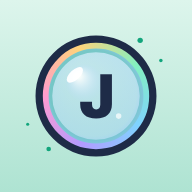
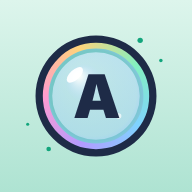
Version 1.9: rename the game from Justo to Ajusto
"Justo" is already used by other apps (food ordering, a Mexican grocery
service, a Brazilian car insurer). Ajusto keeps "justo" inside and reads as
"adjust" in most of the game's languages.

- Name in the page title, logo, manifest and shared text
- New icons with an "A" in the bubble (same pastel design)
- Console helper renamed to window.Ajusto
- Address, save keys and daily challenge seed unchanged: no progress lost
- README and project instructions updated

Claude-Session: https://claude.ai/code/session_01LGSvZm1n3tLj4MuSSEwshj

Changed region(s): [[0.375, 0.375, 0.625, 0.625]]

diff --git a/index.html b/index.html
@@ -3,18 +3,18 @@
 <head>
 <meta charset="utf-8">
 <meta name="viewport" content="width=device-width, initial-scale=1, maximum-scale=1, user-scalable=no, viewport-fit=cover">
-<title>Justo</title>
+<title>Ajusto</title>
 <meta name="claude:viewport-fit-sides" content="cover">
 <meta name="theme-color" content="#CDEEE4">
 <meta name="color-scheme" content="only light">
 <meta name="mobile-web-app-capable" content="yes">
 <meta name="apple-mobile-web-app-capable" content="yes">
-<meta name="apple-mobile-web-app-title" content="Justo">
+<meta name="apple-mobile-web-app-title" content="Ajusto">
 <meta name="apple-mobile-web-app-status-bar-style" content="default">
 <link rel="manifest" href="manifest.webmanifest">
 <link rel="icon" type="image/png" href="icon-192.png">
 <link rel="apple-touch-icon" href="apple-touch-icon.png">
-<meta name="description" content="Justo: inflate your bubble just right to slip through every hole. A one-finger mobile game.">
+<meta name="description" content="Ajusto: inflate your bubble just right to slip through every hole. A one-finger mobile game.">
 <style>
 :root {
   /* Mise en page : plein écran. Le terrain de jeu (canvas) occupe tout l'écran,
@@ -778,7 +778,7 @@ button.coins-pill { cursor: pointer; touch-action: manipulation; }
 <section id="menu" class="screen">
   <div class="inner">
     <div class="menu-top"><button id="coinBtn" class="coins-pill" type="button" data-i18n-aria="shop" aria-label="Shop"><span class="coin"></span><span class="coin-val">0</span></button></div>
-    <h1 class="logo" aria-label="Justo">Just<span class="o" aria-hidden="true"></span></h1>
+    <h1 class="logo" aria-label="Ajusto">Ajust<span class="o" aria-hidden="true"></span></h1>
     <p class="tagline" data-i18n="tagline">Inflate your bubble just right to slip through every hole.</p>
     <ul class="rules" id="rulesList">
       <li>
@@ -1050,7 +1050,7 @@ button.coins-pill { cursor: pointer; touch-action: manipulation; }
   /* =========================================================
      1. RÉGLAGES : change ces nombres pour ajuster le jeu
      ========================================================= */
-  const APP_NAME = 'Justo';   // nom du jeu, le même dans toutes les langues
+  const APP_NAME = 'Ajusto';  // nom du jeu, le même dans toutes les langues (« Justo » jusqu'à la version 1.8)
 
   const CONFIG = {
     lives: 3,               // nombre de vies au départ
@@ -1122,7 +1122,7 @@ button.coins-pill { cursor: pointer; touch-action: manipulation; }
   };
 
   // Numéro de version affiché dans le menu : à augmenter à chaque mise à jour publiée
-  const VERSION = '1.8';
+  const VERSION = '1.9';
 
   const TIP_LEVELS = [2, 3, 4, 5];  // niveaux qui annoncent une nouveauté (textes « tip2 » à « tip5 »)
 
@@ -4788,8 +4788,8 @@ button.coins-pill { cursor: pointer; touch-action: manipulation; }
     }
   } catch (e) { /* service worker interdit dans cette page */ }
 
-  // Accès depuis la console du navigateur (F12) pour tester ou régler : Justo.CONFIG, Justo.state, Justo.save
-  window.Justo = { CONFIG, state: S, save, LANGS, SKINS, TERRAINS, MISSIONS, BONUSES, DAILY_RULES, dailyRule, dateKey, shareText };
+  // Accès depuis la console du navigateur (F12) pour tester ou régler : Ajusto.CONFIG, Ajusto.state, Ajusto.save
+  window.Ajusto = { CONFIG, state: S, save, LANGS, SKINS, TERRAINS, MISSIONS, BONUSES, DAILY_RULES, dailyRule, dateKey, shareText };
 })();
 </script>
 </body>

diff --git a/sw.js b/sw.js
@@ -1,4 +1,4 @@
-// Service worker de Justo : il permet de jouer hors ligne et de recevoir les mises à jour tout seul.
+// Service worker d'Ajusto : il permet de jouer hors ligne et de recevoir les mises à jour tout seul.
 // Stratégie « réseau d'abord » : avec internet, le jeu prend toujours la dernière version publiée
 // (et en garde une copie) ; sans internet, ou si le réseau est trop lent, il utilise la copie gardée.
 

diff --git a/README.md b/README.md
@@ -1,4 +1,4 @@
-# Justo : prototype de jeu mobile
+# Ajusto : prototype de jeu mobile
 
 Prototype jouable dans un navigateur. Tout le jeu tient dans un seul fichier : `index.html` (HTML + CSS + JavaScript).
 Aucune publicité, aucun achat avec de l'argent réel : la Boutique s'utilise seulement avec les pièces gagnées en
@@ -10,20 +10,23 @@ jouant. Les autres fichiers servent seulement à l'installer comme une appli sur
 > Ce n'est **pas** une application Android ou iPhone prête à publier. C'est une page web qui sert à tester
 > l'idée du jeu sur un écran tactile (voir « Ce que ce prototype n'est pas » plus bas).
 
-## Le nom : Justo
+## Le nom : Ajusto
 
-Le jeu s'appelait « Pile Poil » (expression française intraduisible). Son nom international est **Justo** :
+Le jeu s'est appelé « Pile Poil » (expression française intraduisible), puis « Justo » (versions 1.3 à 1.8). « Justo »
+étant déjà utilisé par d'autres applis (commande de repas, supermarché en ligne au Mexique, assurance au Brésil), le
+jeu s'appelle **Ajusto** depuis la version 1.9 :
 
-- « justo » veut dire « juste, pile » en espagnol et en portugais, et se comprend en français (juste), en italien
-  (giusto) et en anglais (just right) ;
+- se comprend presque partout : ajuster (français), adjust (anglais), ajustar (espagnol, portugais) ;
+- garde « justo » (juste, pile) à l'intérieur ;
 - court, facile à prononcer dans les 7 langues du jeu ;
-- le « o » final est la bulle du logo.
+- le « o » final est la bulle du logo, et l'icône montre un « A » dans la bulle.
 
 En français, le tir parfait s'appelle toujours « PILE POIL ! ». L'adresse du site (`/pile-poil/`) et les données
-enregistrées sur le téléphone gardent l'ancien nom : changer l'adresse casserait l'appli déjà installée.
+enregistrées sur le téléphone gardent l'ancien nom : changer l'adresse casserait l'appli déjà installée et ferait
+perdre les sauvegardes.
 
-Vérification faite (rapide, non juridique) : aucun jeu « Justo » trouvé sur les stores. Avant une vraie sortie,
-il faudrait vérifier les marques déposées (INPI, EUIPO) et la disponibilité sur Google Play et l'App Store.
+Vérification faite (rapide, non juridique) : aucune appli ni aucun jeu « Ajusto » trouvé. Avant une vraie sortie,
+vérifier les marques déposées (INPI, EUIPO/TMview, classes 9 et 41), Google Play, l'App Store et le nom de domaine.
 
 ## Langues
 
@@ -206,7 +209,7 @@ parties s'enchaînent (objectif : des sessions de 5 à 10 minutes).
   pas (sur PC par exemple), une fenêtre propose « Copier le texte » et « Ouvrir WhatsApp ».
 
   ```
-  Justo · Défi n°3 (22/10)
+  Ajusto · Défi n°3 (22/10)
   ⚡ Turbo
   🟢🟢🟡🟢🔴🟢🟢🟢🟡🟢
   🟢🟢🟢🔴🟢🟡🟢🟢🟢🟢
@@ -227,7 +230,7 @@ parties s'enchaînent (objectif : des sessions de 5 à 10 minutes).
    - **Android (Chrome)** : menu **⋮** en haut à droite → **Installer l'application** (ou **Ajouter à l'écran
      d'accueil**) → **Installer**.
    - **iPhone (Safari)** : bouton **Partager** (carré avec une flèche) → **Sur l'écran d'accueil** → **Ajouter**.
-3. Lance Justo depuis son icône : il s'ouvre en plein écran, sans barre d'adresse.
+3. Lance Ajusto depuis son icône : il s'ouvre en plein écran, sans barre d'adresse.
 
 - **Hors ligne** : après la première ouverture, le jeu marche sans internet (mode avion compris).
 - **Mises à jour automatiques** : à chaque ouverture avec internet, l'appli charge la dernière version publiée. Si le
@@ -331,10 +334,10 @@ Liste à cocher pour une séance de test :
 
 Quelques commandes utiles dans la console du navigateur (F12, onglet *Console*) :
 
-- `Justo.CONFIG.lives = 99` puis lance une partie : pour tester sans fin.
+- `Ajusto.CONFIG.lives = 99` puis lance une partie : pour tester sans fin.
 - `localStorage.removeItem('pilepoil.daily')` puis recharge : pour rejouer l'essai officiel du jour.
-- `Justo.save.items.shield = 5` : 5 boucliers pour tester (même chose avec `slow` et `magnet`).
-- `Justo.save.coins = 2000` puis ouvre la Boutique : pour tester les achats (les pièces sont enregistrées au
+- `Ajusto.save.items.shield = 5` : 5 boucliers pour tester (même chose avec `slow` et `magnet`).
+- `Ajusto.save.coins = 2000` puis ouvre la Boutique : pour tester les achats (les pièces sont enregistrées au
   prochain achat ou à la prochaine partie).
 - Pour simuler une série de 2 jours (recharge ensuite, puis joue le défi pour passer à 3 jours et débloquer Aurore) :
 

diff --git a/CLAUDE.md b/CLAUDE.md
@@ -1,4 +1,4 @@
-# Consignes pour Claude : dépôt pile-poil (jeu Justo)
+# Consignes pour Claude : dépôt pile-poil (jeu Ajusto, anciennement Justo)
 
 L'utilisateur débute en développement : réponses en français, explications simples, étapes numérotées.
 
@@ -11,7 +11,7 @@ L'utilisateur débute en développement : réponses en français, explications s
 5. Ajouter la version au tableau « Télécharger une version » du README, avec le lien ZIP du commit de la version :
    `https://github.com/lekamaro-cyber/pile-poil/archive/<SHA complet>.zip` (les tags sont refusés par le proxy de
    l'environnement : ne pas en pousser).
-6. Fabriquer `Justo-v1.4.zip` (dossier `Justo-v1.4/` avec `index.html`, `manifest.webmanifest`, `sw.js`,
+6. Fabriquer `Ajusto-v1.9.zip` (dossier `Ajusto-v1.9/` avec `index.html`, `manifest.webmanifest`, `sw.js`,
    les icônes `*.png` et `README.md`) et l'envoyer à l'utilisateur comme fichier à télécharger, avec le lien ZIP de
    la version et le lien « dernière version » : `https://github.com/lekamaro-cyber/pile-poil/archive/refs/heads/main.zip`.
 
